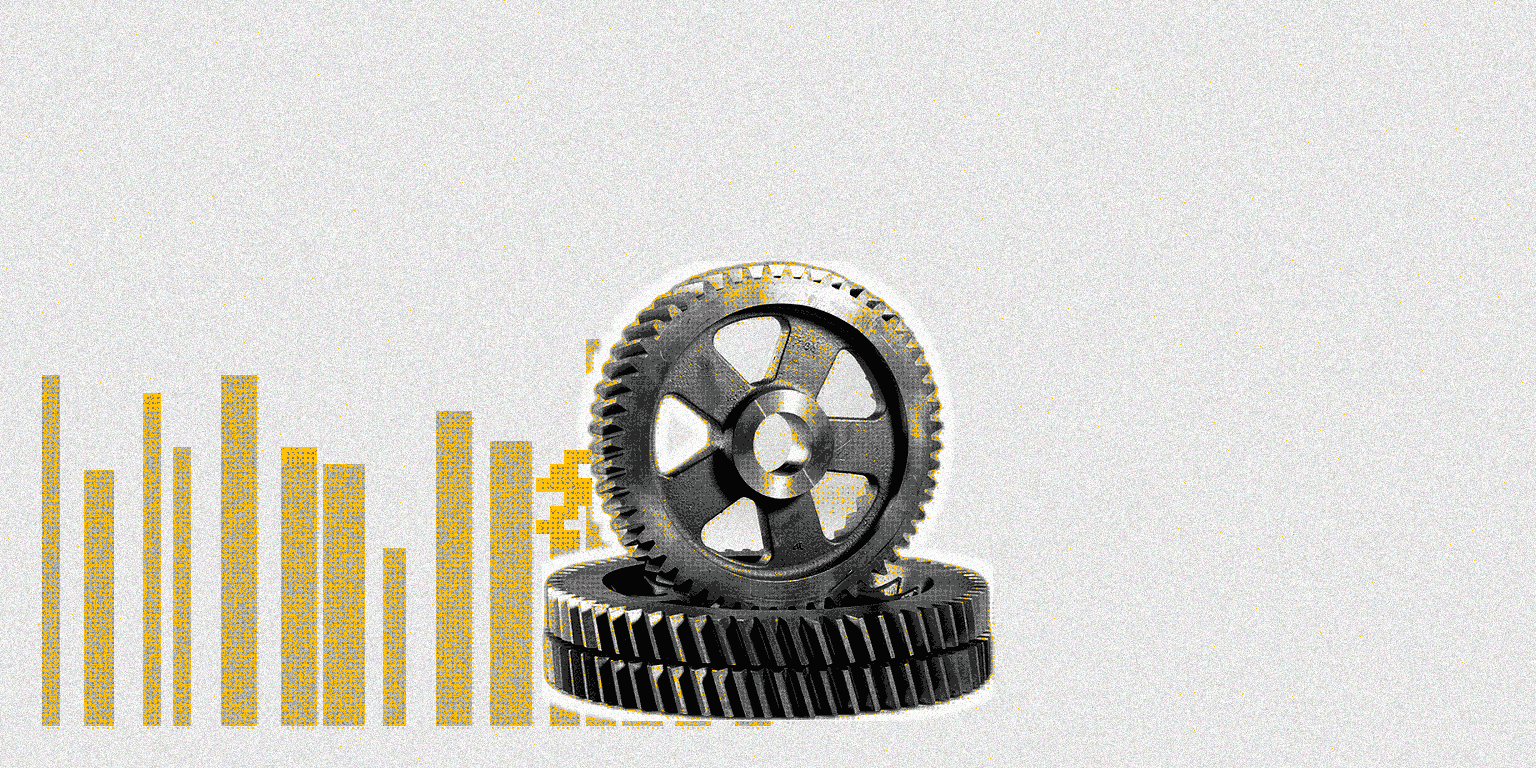
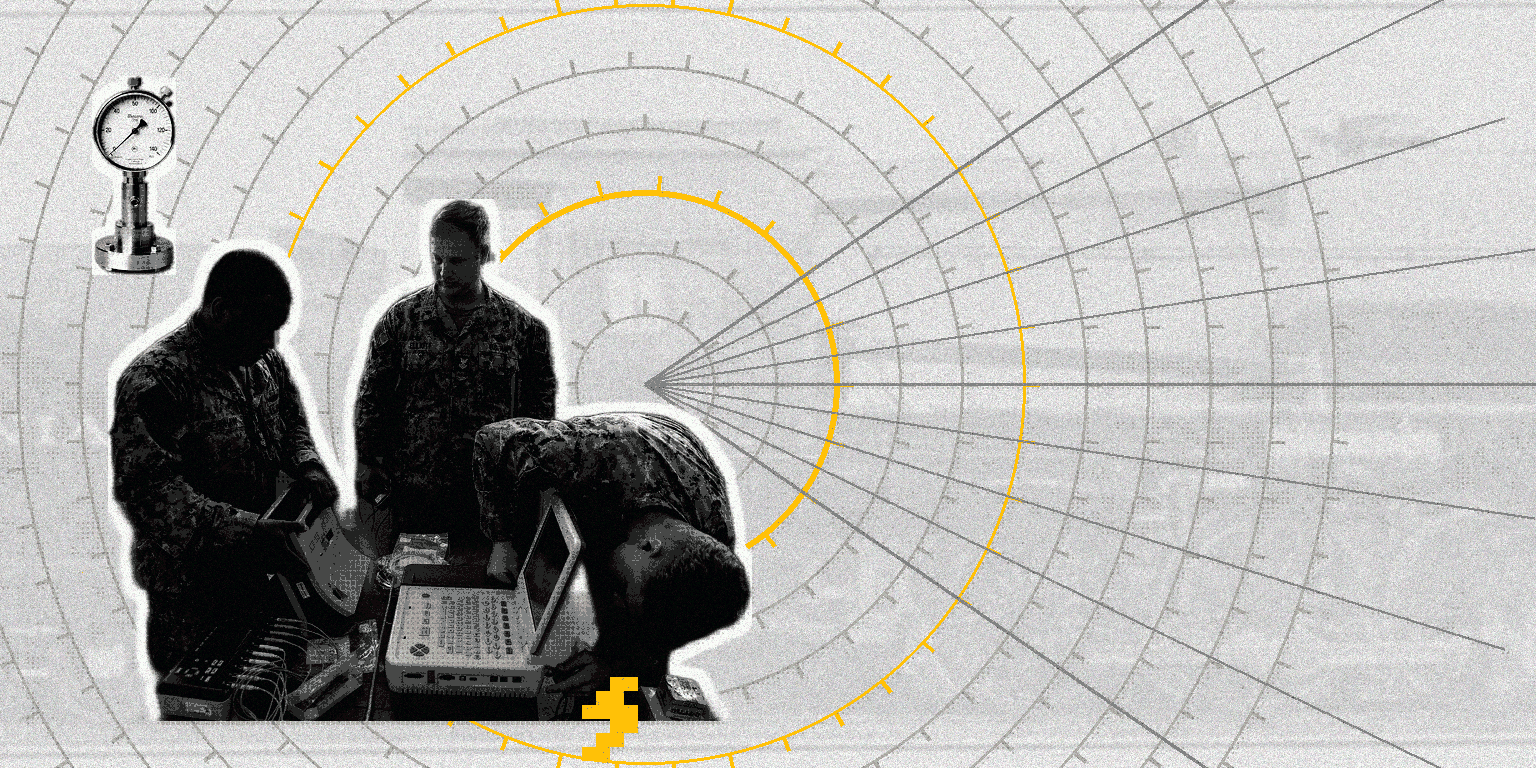
feat(blog): a background of its own per post, on searched photographs
Two problems with the previous cover set: every cover was the same bar field with a different
seed, which is why eight images read as one image eight times, and the subjects were all
generated, so nothing on the page came from the subject matter itself.

Each post now has its own construction - a braille dot matrix, stacked container blocks,
ruled ledger lines, a rack lattice, blueprint construction arcs, letterpress type sorts, a
scaffold truss, gear arcs with speed ticks - and each carries three searched photographs:
a subject, a background printed into the scenery as ink, and an ornament. Nothing is shared
between two covers except the palette and the ground line at 94%.

Measured on the shipped set: the accent's modal value is exactly #ffc107 in all eight files
(the snap runs after the print filter), yellow covers 0.5-2.8% of each plate, covers are
palette PNGs at 655-718 KB, 5 MB in total. Overview scores 10/10; the subject reads complete
on every card.

Attribution is part of the feature, not paperwork: the photographs come from Wikimedia
Commons with their licence recorded per file, and several are CC BY, which requires
attribution where the work is shown. Each post's sources are in a `cover_credits`
frontmatter field and rendered as a quiet line under the date row; docs/illustrations-credits.md
carries the same list with the source pages. Three slots whose only candidate was share-alike
[…]

diff --git a/docs/illustrations-credits.md b/docs/illustrations-credits.md
@@ -1,0 +1,64 @@
+# Blog cover credits
+
+The sources behind each blog cover, with the licence reported by Wikimedia Commons at the time of the
+search and the source page for each file. The same attributions appear on the article pages themselves
+(the `cover_credits` line in each post's frontmatter), because several of the photographs are CC BY and
+that licence requires attribution where the work is shown.
+
+Covers whose slot had no candidate that was not share-alike use an element made for this site instead;
+those are marked below.
+
+Every cover uses a searched photograph for its subject, its background and its ornament,
+except where a slot had no candidate that was not share-alike: those three are generated
+for this site. Licences are as reported by Wikimedia Commons at the time of the search.
+
+## accessibility
+
+- subject: _Secretary Kerry Fires the Starting Gun for the Men's Push-Rim Wheelchair Division of the B_ by <a rel="nofollow" class="external text" href="https://www.fl - Public domain - https://commons.wikimedia.org/wiki/File:Secretary_Kerry_Fires_the_Starting_Gun_for_the_Men%27s_Push-Rim_Wheelchair_Division_of_the_Boston_Marathon_(26231361350).jpg
+- ornament: _Blindness Braille-Apparatus Britannica.png_ by Campbell, Sir Francis J. (Chisholm, Hugh, ed.) - Public domain - https://commons.wikimedia.org/wiki/File:Blindness_Braille-Apparatus_Britannica.png
+- background: _Tactile paving, Albert Street, Brisbane CBD L1030419.jpg_ by <a href="//commons.wikimedia.org/wiki/User:John_Robert_McPhe - CC0 - https://commons.wikimedia.org/wiki/File:Tactile_paving,_Albert_Street,_Brisbane_CBD_L1030419.jpg
+
+## controlling-exports
+
+- subject: generated for this site (no third-party rights)
+- ornament: _PPS-X01.1.png_ by <a href="//commons.wikimedia.org/w/index.php?title=User:Bori - CC0 - https://commons.wikimedia.org/wiki/File:PPS-X01.1.png
+- background: _Shipping containers stacked Panama City panama.jpg_ by Allen Lubitz - Public domain - https://commons.wikimedia.org/wiki/File:Shipping_containers_stacked_Panama_City_panama.jpg
+
+## extending-documentation
+
+- subject: _Person writing in a notebook while sitting at a desk.jpg_ by <a href="//commons.wikimedia.org/wiki/User:Shixart1985" titl - CC BY 2.0 - https://commons.wikimedia.org/wiki/File:Person_writing_in_a_notebook_while_sitting_at_a_desk.jpg
+- ornament: *1906 marbled paper back cover in book binding by Colonial Press, Boston, Massachusetts of * by Unknown - Public domain - https://commons.wikimedia.org/wiki/File:1906_marbled_paper_back_cover_in_book_binding_by_Colonial_Press,_Boston,_Massachusetts_of_%22Famous_Prima_Donnas%22_by_Lewis_Clinton_Strang.jpg
+- background: _Bookshelves in Hove Library 2025-08-20.jpg_ by <a href="//commons.wikimedia.org/wiki/User:Onthewings" title - CC0 - https://commons.wikimedia.org/wiki/File:Bookshelves_in_Hove_Library_2025-08-20.jpg
+
+## ing-open-sources-lion
+
+- subject: _Code on computer monitor (Unsplash).jpg_ by Markus Spiske <a rel="nofollow" class="external text" href=" - CC0 - https://commons.wikimedia.org/wiki/File:Code_on_computer_monitor_(Unsplash).jpg
+- ornament: _Patch cable with RJ45 connector.jpg_ by www.heimnetzwerke.net - CC BY 4.0 - https://commons.wikimedia.org/wiki/File:Patch_cable_with_RJ45_connector.jpg
+- background: _EFTA00002522 - Cluttered server rack filled with colorful cables and networking equipment._ by <a href="//commons.wikimedia.org/wiki/Category:Federal_Burea - Public domain - https://commons.wikimedia.org/wiki/File:EFTA00002522_-_Cluttered_server_rack_filled_with_colorful_cables_and_networking_equipment.jpg
+
+## introducing-lion-ui
+
+- subject: _Cenotaph sketch by Lutyens.jpg_ by <bdi><a href="https://en.wikipedia.org/wiki/en:Edwin_Lutyens - Public domain - https://commons.wikimedia.org/wiki/File:Cenotaph_sketch_by_Lutyens.jpg
+- ornament: generated for this site (no third-party rights)
+- background: _Blueprint reading; a practical manual of instruction in blueprint reading through the anal_ by <p>Fairfield, Howard Parker, 1858-;
+  Kenison, Ervin;
+  Waite, E - No restrictions - https://commons.wikimedia.org/wiki/File:Blueprint_reading;_a_practical_manual_of_instruction_in_blueprint_reading_through_the_analysis_of_typical_plates_with_reference_to_mechanical_drawing_conventions_and_methods,_the_laws_of_projection,_(14593989339).jpg
+
+## introducing-lions-website
+
+- subject: _Businessman working and writing notes in office (Unsplash).jpg_ by JESHOOTS.COM <a rel="nofollow" class="external text" href="h - CC0 - https://commons.wikimedia.org/wiki/File:Businessman_working_and_writing_notes_in_office_(Unsplash).jpg
+- ornament: _Metal movable text.jpg_ by <ul><li><a href="//commons.wikimedia.org/wiki/File:Metal_mov - CC BY 2.5 - https://commons.wikimedia.org/wiki/File:Metal_movable_text.jpg
+- background: _In Bamberg, the first printing press in nowadays Bavaria was built and the first German bo_ by <bdi><a href="https://en.wikipedia.org/wiki/en:Ferdinand_Rot - Public domain - https://commons.wikimedia.org/wiki/File:In_Bamberg,_the_first_printing_press_in_nowadays_Bavaria_was_built_and_the_first_German_book_was_printed_in_1461._After_the_painting_by_Rothbart.jpg
+
+## lion-without-polyfills
+
+- subject: _Scaffolding and workers at Legislative Building construction site, Washington State Capito_ by <div class="fn value">
+  Unknown author<span style="display: n - Public domain - https://commons.wikimedia.org/wiki/File:Scaffolding_and_workers_at_Legislative_Building_construction_site,_Washington_State_Capitol_group,_autumn_1924_(WASTATE_1880).jpg
+- ornament: _Young and Halstead's descriptive seed catalogue (1902) (20560740122).jpg_ by <a rel="nofollow" class="external text" href="https://www.fl - No restrictions - https://commons.wikimedia.org/wiki/File:Young_and_Halstead%27s_descriptive_seed_catalogue_(1902)_(20560740122).jpg
+- background: _BridgeOfTheGods2.jpg_ by <a href="//commons.wikimedia.org/wiki/User:Cacophony" title= - CC BY 2.5 - https://commons.wikimedia.org/wiki/File:BridgeOfTheGods2.jpg
+
+## typescript-7
+
+- subject: _Biomedical Technicians Test Hospital Equipment (8587864).jpg_ by U.S. Navy photo by Petty Officer 2nd Class <a rel="nofollow" - Public domain - https://commons.wikimedia.org/wiki/File:Biomedical_Technicians_Test_Hospital_Equipment_(8587864).jpg
+- ornament: generated for this site (no third-party rights)
+- background: _Image from page 691 of "Railway mechanical engineer" (1916).jpg_ by Internet Archive Book Images - CC0 - https://commons.wikimedia.org/wiki/File:Image_from_page_691_of_%22Railway_mechanical_engineer%22_(1916).jpg

diff --git a/docs/illustrations-style.md b/docs/illustrations-style.md
@@ -23,15 +23,29 @@ The set on the blog today is the collage, not the engraving. Same palette, same 
 the construction is taken off the Wired article hero: **a photographic subject cut out hard and printed
 in high-contrast black and white, laid on a flat field, with the scenery printed around it.**
 
-| layer         | what it is                                                                                        |
-| ------------- | ------------------------------------------------------------------------------------------------- |
-| field         | paper `#e8e8e8`, edge to edge                                                                     |
-| scenery       | vertical bars in a grey _lighter_ than the ink (`#acacac`), on a shared ground line at 94% height |
-| accent screen | a yellow dot screen printed **first**, so the bars print over it and interrupt it                 |
-| bar tips      | selected bars carry their top blocks in the accent, so the yellow rides the bar rhythm            |
-| furniture     | one pixel sprite standing **on** a bar top, footprint square on the bar it belongs to             |
-| subject       | the cutout, white outline tracing its silhouette, standing on the bars' ground line               |
-| filter        | dot screen over everything, paper grain, ink out of register by 2-3px                             |
+Two rules that came after the first collage set shipped, because it failed on them:
+
+- **Every cover gets its own background system.** One recipe with a different random seed reads as the
+  same image eight times, whatever the seed does. Each post now carries a construction of its own - a
+  braille dot matrix, stacked container blocks, ruled ledger lines, a rack lattice, blueprint
+  construction arcs, letterpress type sorts, a scaffold truss, gear arcs with speed ticks. Nothing is
+  shared between two posts except the palette and the ground line.
+- **The photographs are searched, not generated.** Each post gets a subject, a background and an
+  ornament, sourced from Wikimedia Commons (Openverse was dropped: it throttles anonymous callers and
+  the run reached four files a minute). The licence and the source page are recorded per file and the
+  attribution is rendered on the article page, because CC BY requires it where the work is shown - a
+  credits file in the repo is not attribution. Where a slot's only candidate was share-alike (CC BY-SA
+  is a problem for this site), that element is made for this site instead.
+
+| layer     | what it is                                                                              |
+| --------- | --------------------------------------------------------------------------------------- |
+| field     | paper `#e8e8e8`, edge to edge                                                           |
+| scenery   | the post's own abstract system, drawn over the searched background photo printed as ink |
+| ornament  | a searched cut-out, top left, in the same high-contrast black and white as the subject  |
+| subject   | the searched cut-out, white outline tracing its silhouette, on the ground line at 94%   |
+| furniture | one pixel sprite standing on the ground line, so it belongs to the scene                |
+| filter    | dot screen over everything, paper grain, ink out of register by 2-3px                   |
+| credits   | `cover_credits` in the post frontmatter, rendered under the date row                    |
 
 Rules that make it work, each learned from a rejected round:
 

diff --git a/docs/blog/extending-documentation.md b/docs/blog/extending-documentation.md
@@ -5,6 +5,7 @@ description: Extending a component library and its documentation for a speedy de
 date: 2020-12-01
 tags: javascript, documentation, demos
 cover_image: /blog/images/extending-documentation.png
+cover_credits: 'subject - Person writing in a notebook while sitting at a desk.jpg (CC BY 2.0) / ornament - 1906 marbled paper back cover in book binding by Colonial Press, Boston, Massachusetts of  (Public domain) / background - Bookshelves in Hove Library 2025-08-20.jpg (CC0)'
 eleventyNavigation:
   key: Extending Lion Documentation
   title: Extending Lion Documentation

diff --git a/docs/blog/lion-without-polyfills.md b/docs/blog/lion-without-polyfills.md
@@ -5,6 +5,7 @@ description: Lion has been a long user of the scoped registry - always requiring
 date: 2022-04-05
 tags: [javascript, polyfills]
 cover_image: /blog/images/lion-without-polyfills.png
+cover_credits: "subject - *Scaffolding and workers at Legislative Building construction site, Washington State Capito* by <div class='fn value'> / ornament - Young and Halstead's descriptive seed catalogue (1902) (20560740122).jpg (No restrictions) / background - BridgeOfTheGods2.jpg (CC BY 2.5)"
 eleventyNavigation:
   key: Lion without polyfills
   title: Lion without polyfills

diff --git a/docs/blog/accessibility.md b/docs/blog/accessibility.md
@@ -5,6 +5,7 @@ description: What does the term Accessibility mean within the context of Lion?
 date: 2021-12-07
 tags: [ux, accessibility]
 cover_image: /blog/images/accessibility.png
+cover_credits: "subject - Secretary Kerry Fires the Starting Gun for the Men's Push-Rim Wheelchair Division of the B (Public domain) / ornament - Blindness Braille-Apparatus Britannica.png (Public domain) / background - Tactile paving, Albert Street, Brisbane CBD L1030419.jpg (CC0)"
 eleventyNavigation:
   key: The Accessibility of Lion
   title: The Accessibility of Lion

diff --git a/docs/blog/introducing-lions-website.md b/docs/blog/introducing-lions-website.md
@@ -5,6 +5,7 @@ description: A static website with docs and demos for lion
 date: 2021-03-10
 tags: [javascript, rocket, documentation]
 cover_image: /blog/images/introducing-lions-website.png
+cover_credits: 'subject - Businessman working and writing notes in office (Unsplash).jpg (CC0) / ornament - Metal movable text.jpg (CC BY 2.5) / background - In Bamberg, the first printing press in nowadays Bavaria was built and the first German bo (Public domain)'
 eleventyNavigation:
   key: Introducing lions website
   title: Introducing lions website

diff --git a/docs/blog/ing-open-sources-lion.md b/docs/blog/ing-open-sources-lion.md
@@ -5,6 +5,7 @@ description: A library of performant, accessible & flexible Web Components
 date: 2020-08-10
 tags: [javascript, tests, demos]
 cover_image: /blog/images/ing-open-sources-lion.png
+cover_credits: 'subject - Code on computer monitor (Unsplash).jpg (CC0) / ornament - Patch cable with RJ45 connector.jpg (CC BY 4.0) / background - EFTA00002522 - Cluttered server rack filled with colorful cables and networking equipment. (Public domain)'
 eleventyNavigation:
   key: ING open sources Lion
   title: ING open sources Lion

diff --git a/docs/blog/typescript-7.md b/docs/blog/typescript-7.md
@@ -5,6 +5,7 @@ description: TypeScript 7 type-checks Lion's ~1,000 declaration files about six 
 date: 2026-09-26
 tags: [javascript, typescript, performance]
 cover_image: /blog/images/typescript-7.png
+cover_credits: "subject - Biomedical Technicians Test Hospital Equipment (8587864).jpg (Public domain) / ornament - made for this site / background - Image from page 691 of 'Railway mechanical engineer' (1916).jpg (CC0)"
 eleventyNavigation:
   key: Migrating Lion to TypeScript 7
   title: Migrating Lion to TypeScript 7

diff --git a/docs/blog/introducing-lion-ui.md b/docs/blog/introducing-lion-ui.md
@@ -5,6 +5,7 @@ description: Lion introduces the new package @lion/ui which is a collection of a
 date: 2023-03-20
 tags: [javascript]
 cover_image: /blog/images/introducing-lion-ui.png
+cover_credits: 'subject - Cenotaph sketch by Lutyens.jpg (Public domain) / ornament - made for this site / background - *Blueprint reading / a practical manual of instruction in blueprint reading through the anal* by <p>Fairfield, Howard Parker, 1858-'
 eleventyNavigation:
   key: Introducing Lion UI
   title: Introducing Lion UI

diff --git a/docs/blog/controlling-exports.md b/docs/blog/controlling-exports.md
@@ -5,6 +5,7 @@ description: Maintainer can now define their public api of a package itself.
 date: 2021-03-09
 tags: [javascript, exports]
 cover_image: /blog/images/controlling-exports.png
+cover_credits: 'subject - made for this site / ornament - PPS-X01.1.png (CC0) / background - Shipping containers stacked Panama City panama.jpg (Public domain)'
 eleventyNavigation:
   key: Controlling exports
   title: Controlling exports
